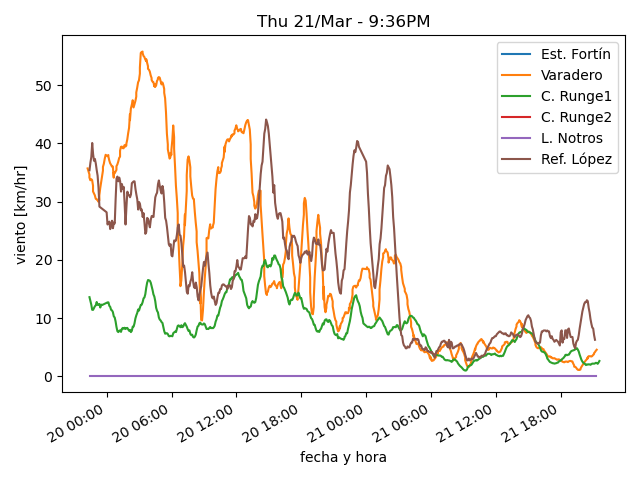
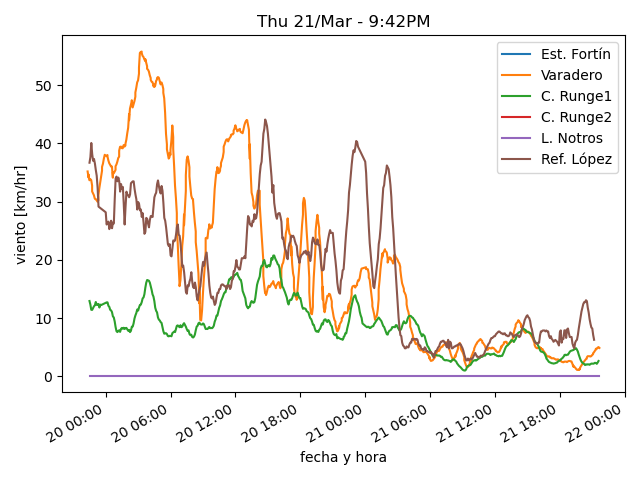
actualiza datos

diff --git a/estaciones/estacion2.html b/estaciones/estacion2.html
@@ -18,22 +18,22 @@
     </tr>
     <tr>
      <td class="stats_data">
-      9:19PM
+      9:39PM
      </td>
     </tr>
     <tr>
      <td class="stats_data">
-      10.8
+      10.3
      </td>
     </tr>
     <tr>
      <td class="stats_data">
-      6.4
+      5.9
      </td>
     </tr>
     <tr>
      <td class="stats_data">
-      74.0
+      74.2
      </td>
     </tr>
     <tr>
@@ -43,7 +43,7 @@
     </tr>
     <tr>
      <td class="stats_data">
-      4.1/5.3 SSW
+      2.8/3.8 SSW
      </td>
     </tr>
     <tr>

diff --git a/estaciones/estacion5.html b/estaciones/estacion5.html
@@ -18,27 +18,27 @@
     </tr>
     <tr>
      <td class="stats_data">
-      9:15PM
+      9:35PM
      </td>
     </tr>
     <tr>
      <td class="stats_data">
-      7.9
+      7.2
      </td>
     </tr>
     <tr>
      <td class="stats_data">
-      4.8
+      4.7
      </td>
     </tr>
     <tr>
      <td class="stats_data">
-      80.0
+      84.0
      </td>
     </tr>
     <tr>
      <td class="stats_data">
-      1019.47
+      1019.68
      </td>
     </tr>
     <tr>
